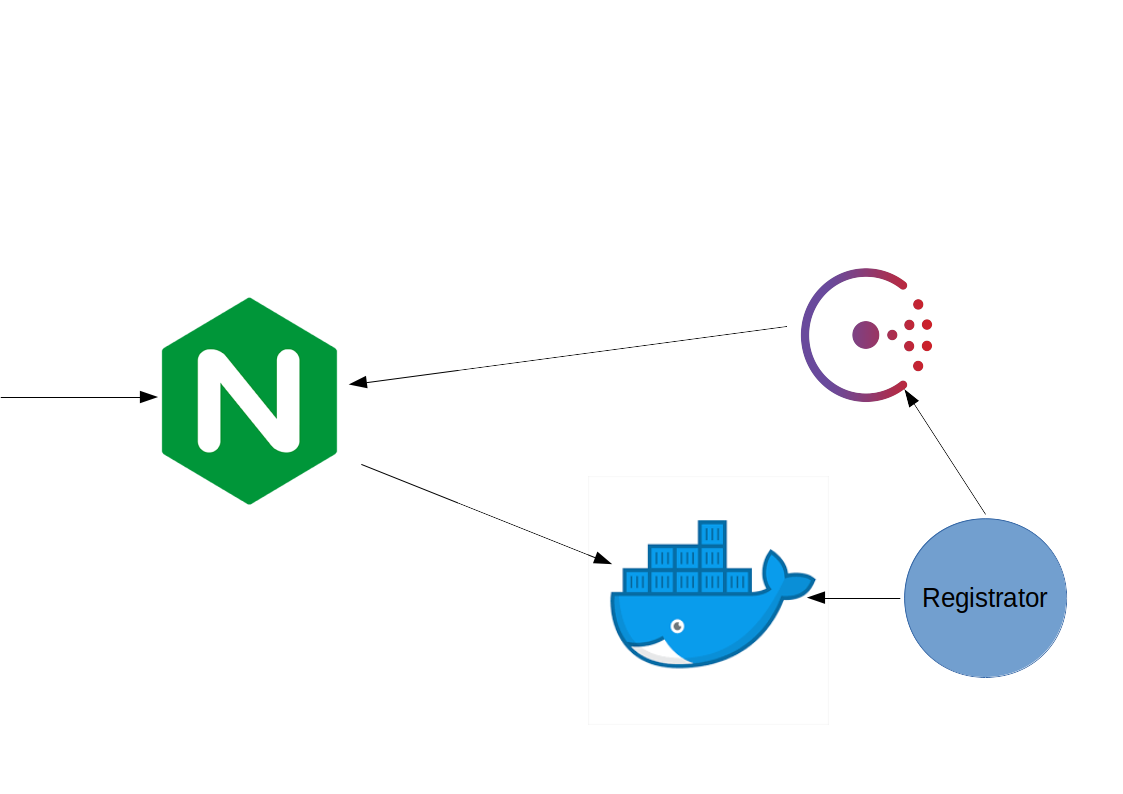
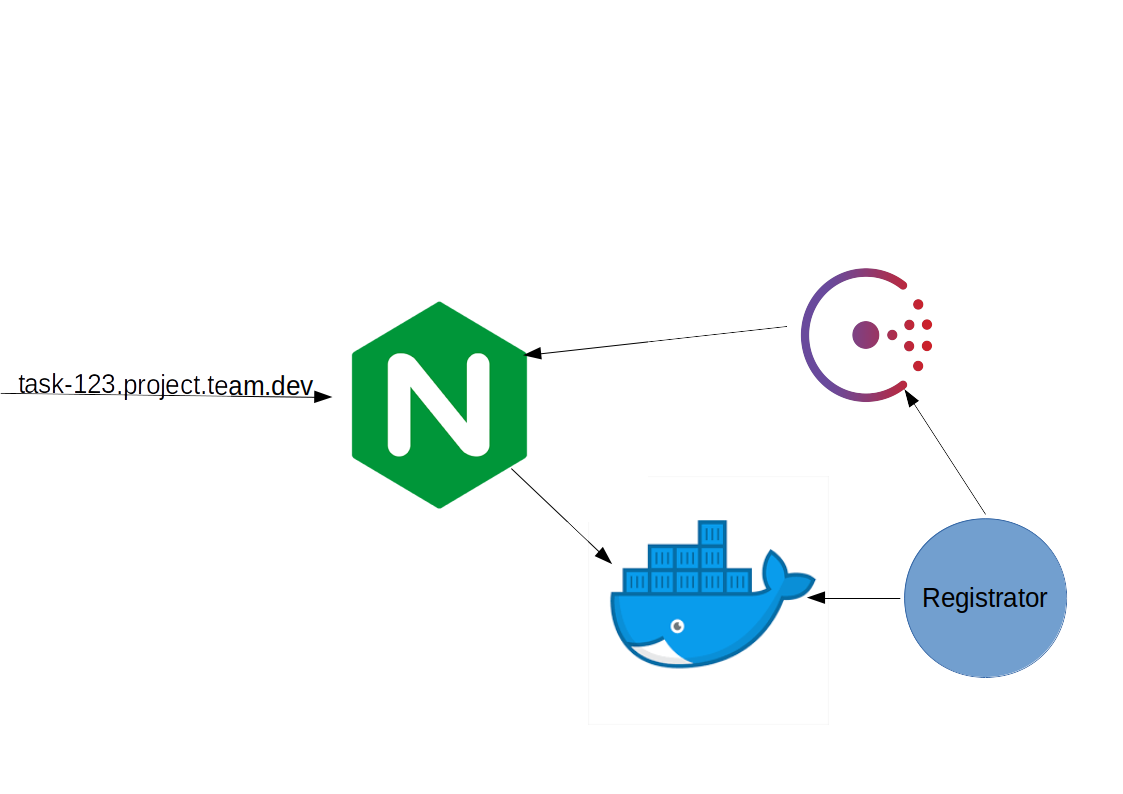
devSheme with host

Changed region(s): [[0.0, 0.3627, 0.6233, 0.6348], [0.5298, 0.6952, 0.561, 0.7254]]

diff --git a/post/ci-cd/index.html b/post/ci-cd/index.html
@@ -19,8 +19,8 @@
   
   <meta name="description" content="Содержание
  Общая схема Сервер dev с песочницами Детализация разработки (создание ветки, непрерывный деплой и тестирование, создание merge на бота, апрув в master) Прод с master-master репликацией, graylog, sentry, prometheus.  Наверное, все видели стандартную восьмёрку, как выглядит CI/CD:
-Но обычно никто не рассказывает, как именно пошагово реализовать этот процесс.
-Сегодня детализирую этот процесс на примере разработки веб-сервисов.
+Но обычно никто не рассказывает, как именно реализовать этот процесс.
+Сегодня детализирую этот на примере разработки веб-сервисов.
 На схеме мы видим, как параллельно сдаются задачи (в виде коммитов) в master-ветку.">
 
   
@@ -99,8 +99,8 @@
   <meta property="og:title" content="Схема CI/CD  для веб-разработчиков на основе open-source инструментов | Инфраструктура ИТ">
   <meta property="og:description" content="Содержание
  Общая схема Сервер dev с песочницами Детализация разработки (создание ветки, непрерывный деплой и тестирование, создание merge на бота, апрув в master) Прод с master-master репликацией, graylog, sentry, prometheus.  Наверное, все видели стандартную восьмёрку, как выглядит CI/CD:
-Но обычно никто не рассказывает, как именно пошагово реализовать этот процесс.
-Сегодня детализирую этот процесс на примере разработки веб-сервисов.
+Но обычно никто не рассказывает, как именно реализовать этот процесс.
+Сегодня детализирую этот на примере разработки веб-сервисов.
 На схеме мы видим, как параллельно сдаются задачи (в виде коммитов) в master-ветку.">
   <meta property="og:locale" content="ru-ru">
   
@@ -305,9 +305,9 @@
 
 <p><img src="/images/ci-cd/8.png" alt="Бесконечность CI/CD" title="Бесконечность CI/CD" /></p>
 
-<p>Но обычно никто не рассказывает, как именно пошагово реализовать этот процесс.</p>
+<p>Но обычно никто не рассказывает, как именно реализовать этот процесс.</p>
 
-<p>Сегодня детализирую этот процесс на примере разработки веб-сервисов.</p>
+<p>Сегодня детализирую этот на примере разработки веб-сервисов.</p>
 
 <p><img src="/images/ci-cd/common-scheme.png" alt="Общая схема" title="Общая схема" /></p>
 
@@ -329,12 +329,16 @@
 
 <h2 id="dev-сервер-с-песочницами-под-каждую-ветку">Dev-сервер с песочницами под каждую ветку</h2>
 
-<p>Основная фишка - предоставление песочницы под задачу со всеми нужными контейнерами для разработки быстро (в идеале в течение 1-5 минут после запроса).</p>
+<p>Основная фишка - предоставление песочницы под задачу со всеми нужными контейнерами для разработки быстро (в идеале в течение 1-5 минут после запроса).
+Песочница должна максимально повторять продакшн.</p>
 
-<p>При этом понятно, что железо стоит денег и старые песочницы ночью удаляются в автоматическом режиме.
+<p>Понятно, что железо стоит денег, поэтому старые песочницы ночью удаляются в автоматическом режиме.
 Без этой операции при большом количестве параллельных задач можно погрязнуть в хаосе.</p>
 
 <p><img src="/images/ci-cd/devScheme.png" alt="Схема работы dev-сервера" title="Схема работы dev-сервера" />.</p>
+
+<p>На этой картинке показано, что пользователи сервиса заходят через nginx на конкретную песочницу,
+которая регистрируется в nginx во время создания с помощью consul и consul-template.</p>
 
 <p>В исследованиях <a href="https://services.google.com/fh/files/misc/state-of-devops-2019.pdf" target="_blank">State of DevOps 2019</a>
 и <a href="https://express42.com/upload/reports/State-of-DevOps-Russia-2020.pdf" target="_blank">State of DevOps Russia 2020</a></p>

diff --git a/tags/ci/cd/index.html b/tags/ci/cd/index.html
@@ -211,7 +211,7 @@
     <h2><a href="https://vitalyzhakov.github.io/post/ci-cd/">Схема CI/CD  для веб-разработчиков на основе open-source инструментов</a></h2>
     <div class="article-style">
       
-      Наверное, все видели стандартную восьмёрку, как выглядит CI/CD. Но обычно никто не  рассказывает, как именно пошагово реализовать этот процесс. Сегодня детализирую на примере разработки веб-сервисов.
+      Наверное, все видели стандартную восьмёрку, как выглядит CI/CD. Но обычно никто не  рассказывает, как именно реализовать этот процесс. Сегодня детализирую на примере разработки веб-сервисов.
       
     </div>
   </div>

diff --git a/index.html b/index.html
@@ -294,7 +294,7 @@
   </h3>
   <div class="article-style" itemprop="articleBody">
     
-    <p>Наверное, все видели стандартную восьмёрку, как выглядит CI/CD. Но обычно никто не  рассказывает, как именно пошагово реализовать этот процесс. Сегодня детализирую на примере разработки веб-сервисов.</p>
+    <p>Наверное, все видели стандартную восьмёрку, как выглядит CI/CD. Но обычно никто не  рассказывает, как именно реализовать этот процесс. Сегодня детализирую на примере разработки веб-сервисов.</p>
     
   </div>
   <p class="read-more" itemprop="mainEntityOfPage">

diff --git a/post/index.html b/post/index.html
@@ -241,7 +241,7 @@
   </h3>
   <div class="article-style" itemprop="articleBody">
     
-    <p>Наверное, все видели стандартную восьмёрку, как выглядит CI/CD. Но обычно никто не  рассказывает, как именно пошагово реализовать этот процесс. Сегодня детализирую на примере разработки веб-сервисов.</p>
+    <p>Наверное, все видели стандартную восьмёрку, как выглядит CI/CD. Но обычно никто не  рассказывает, как именно реализовать этот процесс. Сегодня детализирую на примере разработки веб-сервисов.</p>
     
   </div>
   <p class="read-more" itemprop="mainEntityOfPage">
